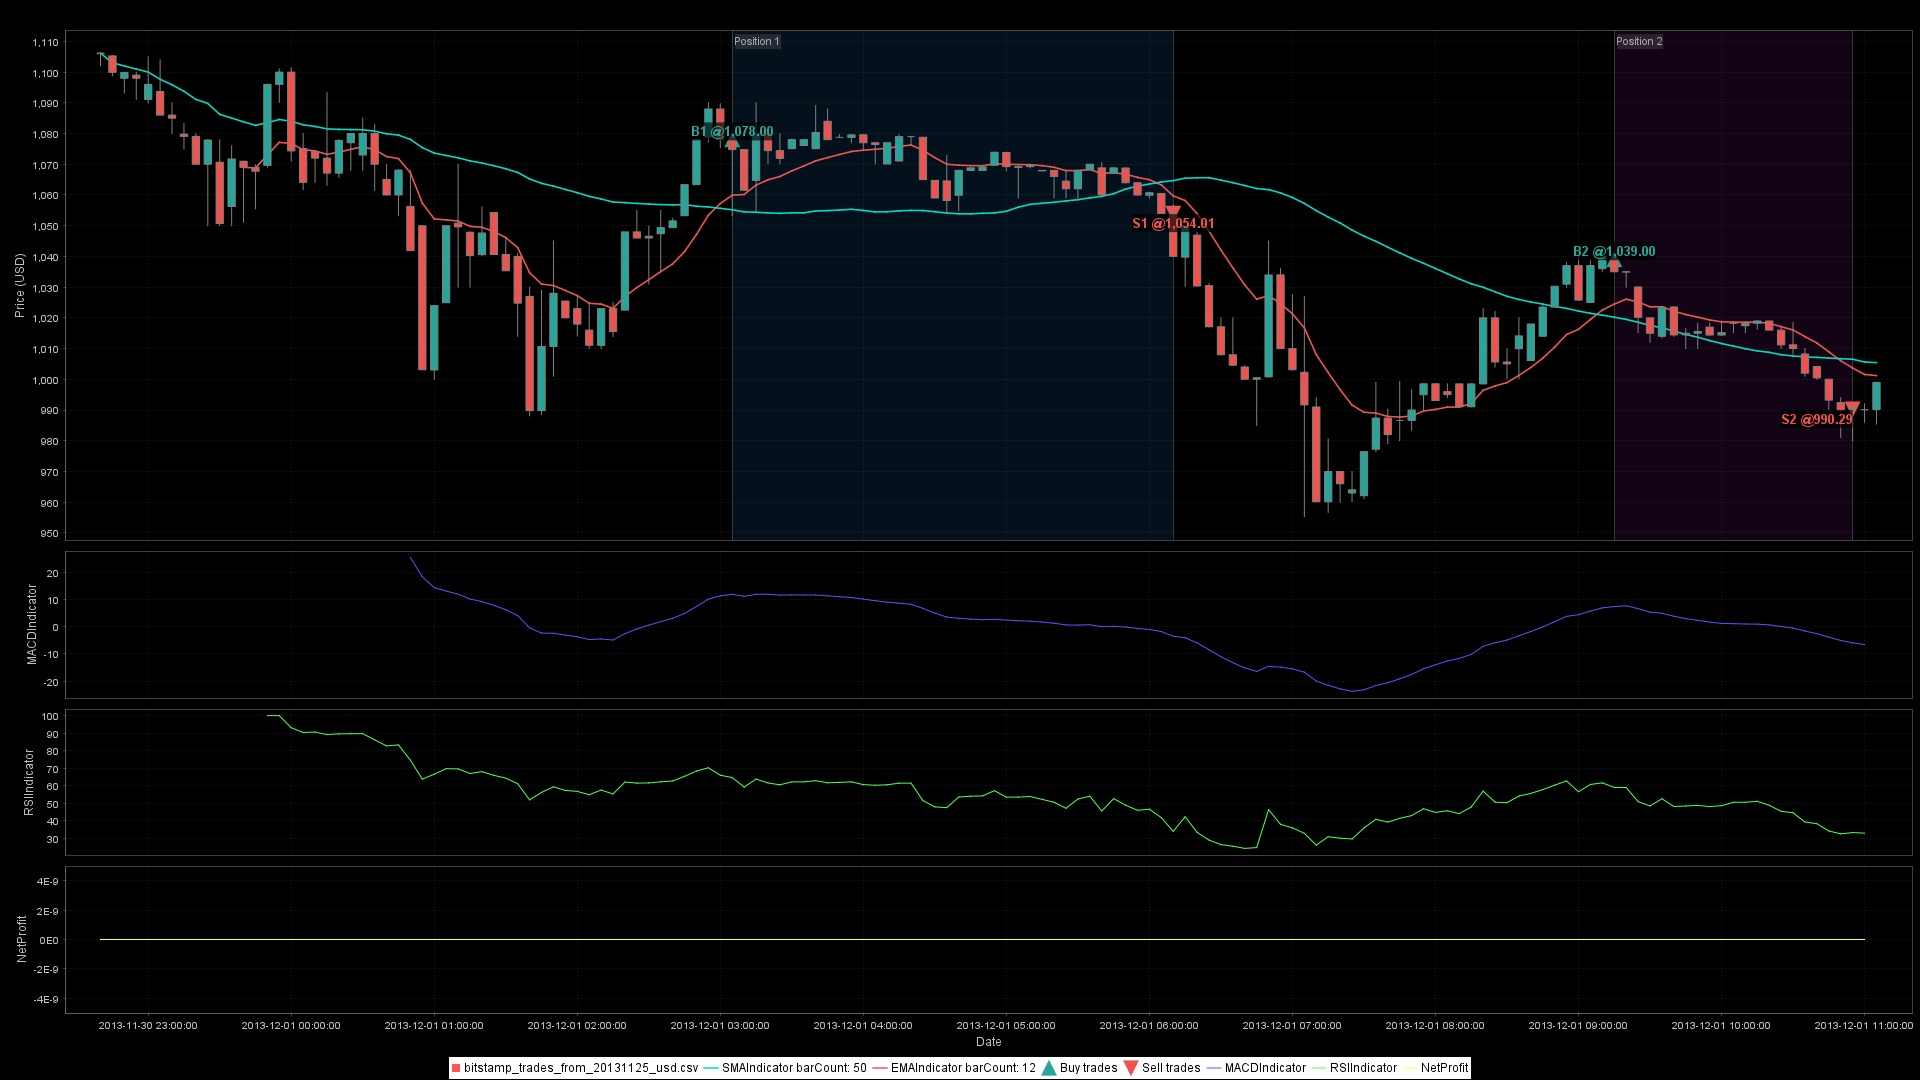
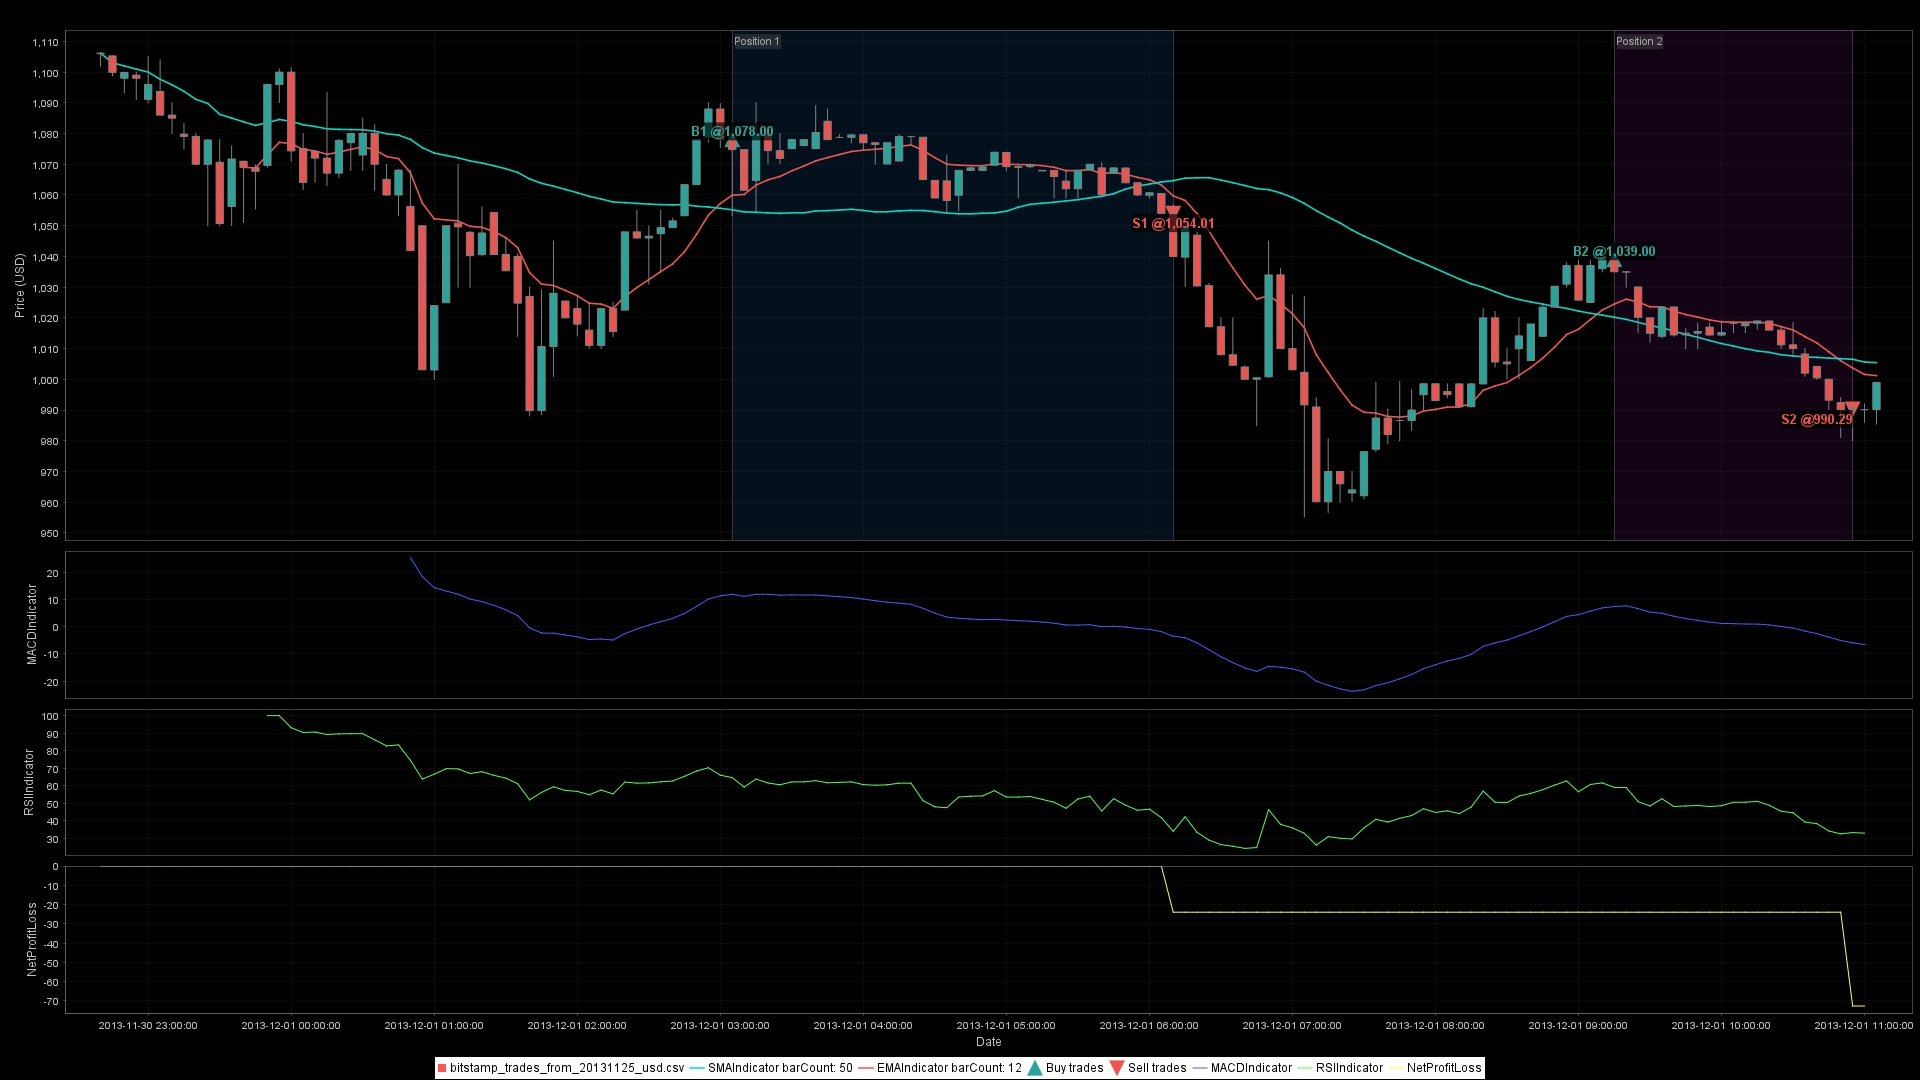
Enhance README and update chart generation examples
- Added detailed examples for basic strategy visualization, including indicator overlays and performance metrics in README.md.
- Introduced new code snippets for advanced multi-indicator analysis with subcharts, demonstrating comprehensive strategy behavior.
- Updated logging messages in ReadmeChartGenerator.java to specify chart image names for improved clarity during chart saving.
- Replaced NetProfitCriterion with NetProfitLossCriterion in chart generation to provide accurate performance metrics.

Changed region(s): [[0.2188, 0.9778, 0.7812, 1.0], [0.0, 0.825, 0.0312, 0.9167]]

diff --git a/ta4j-examples/src/main/java/ta4jexamples/doc/ReadmeChartGenerator.java b/ta4j-examples/src/main/java/ta4jexamples/doc/ReadmeChartGenerator.java
@@ -29,7 +29,7 @@ import org.jfree.chart.JFreeChart;
 import org.ta4j.core.*;
 import org.ta4j.core.backtest.BarSeriesManager;
 import org.ta4j.core.criteria.drawdown.MaximumDrawdownCriterion;
-import org.ta4j.core.criteria.pnl.NetProfitCriterion;
+import org.ta4j.core.criteria.pnl.NetProfitLossCriterion;
 import org.ta4j.core.indicators.RSIIndicator;
 import org.ta4j.core.indicators.MACDIndicator;
 import org.ta4j.core.indicators.averages.EMAIndicator;
@@ -111,7 +111,7 @@ public class ReadmeChartGenerator {
         if (savedPath.isPresent()) {
             LOG.info("Chart saved to: {}", savedPath.get().toAbsolutePath());
         } else {
-            LOG.warn("Failed to save chart image");
+            LOG.warn("Failed to save ema-crossover-readme.jpg chart image");
         }
 
         return savedPath;
@@ -169,7 +169,7 @@ public class ReadmeChartGenerator {
         if (savedPath.isPresent()) {
             LOG.info("Chart saved to: {}", savedPath.get().toAbsolutePath());
         } else {
-            LOG.warn("Failed to save chart image");
+            LOG.warn("Failed to save rsi-strategy-readme.jpg chart image");
         }
 
         return savedPath;
@@ -230,7 +230,7 @@ public class ReadmeChartGenerator {
         if (savedPath.isPresent()) {
             LOG.info("Chart saved to: {}", savedPath.get().toAbsolutePath());
         } else {
-            LOG.warn("Failed to save chart image");
+            LOG.warn("Failed to save strategy-performance-readme.jpg chart image");
         }
 
         return savedPath;
@@ -277,6 +277,10 @@ public class ReadmeChartGenerator {
 
         LOG.info("Strategy executed: {} positions", record.getPositionCount());
 
+        NetProfitLossCriterion netProfitLossCriterion = new NetProfitLossCriterion();
+        netProfitLossCriterion.calculate(series, record);
+        LOG.info("Net profit/loss: {}", netProfitLossCriterion.calculate(series, record));
+
         // Generate advanced chart with multiple subcharts
         ChartWorkflow chartWorkflow = new ChartWorkflow();
         JFreeChart chart = chartWorkflow.builder()
@@ -287,7 +291,7 @@ public class ReadmeChartGenerator {
                 .withTradingRecordOverlay(record) // Mark entry/exit points with arrows
                 .withSubChart(macd) // MACD indicator in subchart
                 .withSubChart(rsi) // RSI indicator in subchart
-                .withSubChart(new NetProfitCriterion(), record) // Net profit performance metric
+                .withSubChart(new NetProfitLossCriterion(), record) // Net profit/loss performance metric
                 .toChart();
 
         // Save chart image
@@ -296,7 +300,7 @@ public class ReadmeChartGenerator {
         if (savedPath.isPresent()) {
             LOG.info("Chart saved to: {}", savedPath.get().toAbsolutePath());
         } else {
-            LOG.warn("Failed to save chart image");
+            LOG.warn("Failed to save advanced-strategy-readme.jpg chart image");
         }
 
         return savedPath;

diff --git a/README.md b/README.md
@@ -225,6 +225,8 @@ topStrategies.forEach(statement -> {
 See your strategies in action. Ta4j includes charting helpers, but you're not locked in—serialize to JSON and use any visualization stack you prefer.
 
 **Built-in Java charting** (using JFreeChart):
+
+Basic strategy visualization with indicator overlays:
 ```java
 import org.ta4j.core.chart.ChartWorkflow;
 import org.jfree.chart.JFreeChart;
@@ -233,18 +235,105 @@ ChartWorkflow chartWorkflow = new ChartWorkflow();
 JFreeChart chart = chartWorkflow.builder()
         .withTitle("EMA Crossover Strategy")
         .withSeries(series)                    // Price bars (candlesticks)
-        .withIndicatorOverlay(fastEma)                // Overlay indicators on price chart
+        .withIndicatorOverlay(fastEma)         // Overlay indicators on price chart
         .withIndicatorOverlay(slowEma)
-        .withTradingRecordOverlay(record)      // Mark back-tested strategy's entry/exit points on chart
-        .withSubChart(new MaximumDrawdownCriterion(), record)  // Add maximum drawdown analysis in a subchart
+        .withTradingRecordOverlay(record)      // Mark entry/exit points with arrows
         .toChart();
 chartWorkflow.displayChart(chart);            // displays chart in an interactive Swing window
-chartWorkflow.saveChartImage(chart, series, "ema-crossover-strategy", "output/charts");  // Save as output/charts/ema-crossover-strategy.jpg
+chartWorkflow.saveChartImage(chart, series, "ema-crossover-strategy", "output/charts");  // Save as image
 ```
 
 ![EMA Crossover Strategy Chart](ta4j-examples/docs/img/ema-crossover-readme.jpg)
 
-The chart above shows candlestick price data with EMA lines overlaid, buy/sell signals marked with arrows, and a performance subchart showing drawdown over time. This is the actual output from the code example above. See the [chart at the top of this README](#ta4j) for another example, or check the [wiki's charting guide](https://ta4j.github.io/ta4j-wiki/Charting.html) for more examples.
+The chart above shows candlestick price data with EMA lines overlaid and buy/sell signals marked with arrows. This demonstrates basic strategy visualization with indicator overlays.
+
+**Adding indicator subcharts** for indicators with different scales (like RSI, which ranges from 0-100):
+```java
+import org.ta4j.core.indicators.RSIIndicator;
+
+ClosePriceIndicator close = new ClosePriceIndicator(series);
+RSIIndicator rsi = new RSIIndicator(close, 14);
+
+// RSI strategy: buy when RSI crosses below 30 (oversold), sell when RSI crosses above 70 (overbought)
+Rule entry = new CrossedDownIndicatorRule(rsi, 30);
+Rule exit = new CrossedUpIndicatorRule(rsi, 70);
+Strategy strategy = new BaseStrategy("RSI Strategy", entry, exit);
+TradingRecord record = new BarSeriesManager(series).run(strategy);
+
+JFreeChart chart = chartWorkflow.builder()
+        .withTitle("RSI Strategy with Subchart")
+        .withSeries(series)                    // Price bars (candlesticks)
+        .withTradingRecordOverlay(record)      // Mark entry/exit points
+        .withSubChart(rsi)                     // RSI indicator in separate subchart panel
+        .toChart();
+```
+
+![RSI Strategy with Subchart](ta4j-examples/docs/img/rsi-strategy-readme.jpg)
+
+**Visualizing performance metrics** alongside your strategy:
+```java
+import org.ta4j.core.criteria.drawdown.MaximumDrawdownCriterion;
+import org.ta4j.core.indicators.averages.SMAIndicator;
+
+ClosePriceIndicator close = new ClosePriceIndicator(series);
+SMAIndicator sma20 = new SMAIndicator(close, 20);
+EMAIndicator ema12 = new EMAIndicator(close, 12);
+
+// Strategy: buy when EMA crosses above SMA, sell when EMA crosses below SMA
+Rule entry = new CrossedUpIndicatorRule(ema12, sma20);
+Rule exit = new CrossedDownIndicatorRule(ema12, sma20);
+Strategy strategy = new BaseStrategy("EMA/SMA Crossover", entry, exit);
+TradingRecord record = new BarSeriesManager(series).run(strategy);
+
+JFreeChart chart = chartWorkflow.builder()
+        .withTitle("Strategy Performance Analysis")
+        .withSeries(series)                    // Price bars (candlesticks)
+        .withIndicatorOverlay(sma20)           // Overlay SMA on price chart
+        .withIndicatorOverlay(ema12)           // Overlay EMA on price chart
+        .withTradingRecordOverlay(record)      // Mark entry/exit points
+        .withSubChart(new MaximumDrawdownCriterion(), record)  // Performance metric in subchart
+        .toChart();
+```
+
+![Strategy Performance Analysis](ta4j-examples/docs/img/strategy-performance-readme.jpg)
+
+This chart shows price action with indicator overlays, trading signals, and a performance subchart displaying maximum drawdown over time—helping you understand risk alongside returns.
+
+**Advanced multi-indicator analysis** with multiple subcharts:
+```java
+import org.ta4j.core.indicators.MACDIndicator;
+import org.ta4j.core.criteria.pnl.NetProfitLossCriterion;
+
+ClosePriceIndicator close = new ClosePriceIndicator(series);
+SMAIndicator sma50 = new SMAIndicator(close, 50);
+EMAIndicator ema12 = new EMAIndicator(close, 12);
+MACDIndicator macd = new MACDIndicator(close, 12, 26);
+RSIIndicator rsi = new RSIIndicator(close, 14);
+
+// Strategy: buy when EMA crosses above SMA and RSI > 50, sell when EMA crosses below SMA
+Rule entry = new CrossedUpIndicatorRule(ema12, sma50)
+        .and(new OverIndicatorRule(rsi, 50));
+Rule exit = new CrossedDownIndicatorRule(ema12, sma50);
+Strategy strategy = new BaseStrategy("Advanced Multi-Indicator Strategy", entry, exit);
+TradingRecord record = new BarSeriesManager(series).run(strategy);
+
+JFreeChart chart = chartWorkflow.builder()
+        .withTitle("Advanced Multi-Indicator Strategy")
+        .withSeries(series)                    // Price bars (candlesticks)
+        .withIndicatorOverlay(sma50)           // Overlay SMA on price chart
+        .withIndicatorOverlay(ema12)           // Overlay EMA on price chart
+        .withTradingRecordOverlay(record)      // Mark entry/exit points
+        .withSubChart(macd)                    // MACD indicator in subchart
+        .withSubChart(rsi)                     // RSI indicator in subchart
+        .withSubChart(new NetProfitLossCriterion(), record)  // Net profit/loss performance metric
+        .toChart();
+```
+
+![Advanced Multi-Indicator Strategy](ta4j-examples/docs/img/advanced-strategy-readme.jpg)
+
+This comprehensive chart demonstrates combining multiple indicators (MACD, RSI) in separate subcharts with performance metrics, giving you a complete view of strategy behavior.
+
+See the [chart at the top of this README](#ta4j) for another example, or check the [wiki's charting guide](https://ta4j.github.io/ta4j-wiki/Charting.html) for more examples.
 
 **Export to any stack** (Python, TypeScript, etc.):
 ```java
